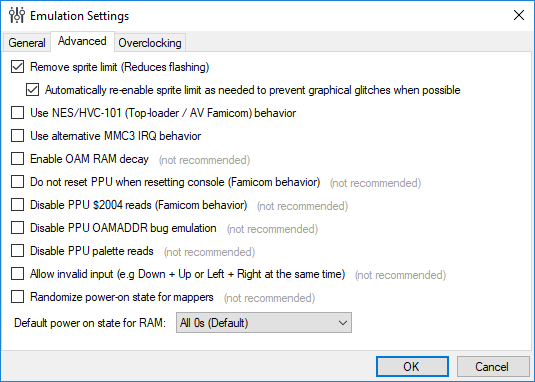
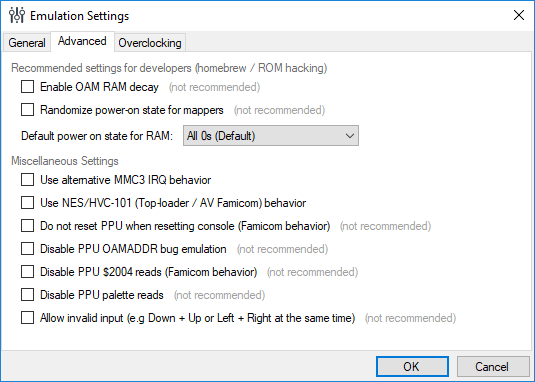
Docs: Updated some sections to reflect changes in the UI and add some more details

Changed region(s): [[0.0, 0.144, 0.8673, 0.8927]]

diff --git a/Docs/content/configuration/Emulation.md b/Docs/content/configuration/Emulation.md
@@ -23,24 +23,32 @@ Set any speed value to 0 to make Mesen run as fast as it can.
 
 ## Advanced Options ##
 
-{{% notice warning %}}
-Several options in this section should NOT be enabled to avoid issues in some games -- they are available here stricly for the sake of completeness (and testing homebrew software, etc.). These options are marked with the `(not recommended)` tag in the UI.
-{{% /notice %}}
-
 <div class="imgBox"><div>
 	<img src="/images/EmulationSettings_Advanced.png" />
 	<span>Advanced Options</span>
 </div></div>
 
-**Remove sprite limit**: The NES can normally only draw up to 8 sprites per line -- this limitation is indirectly responsible for *some* of the flickering seen in games at times.  When this option is enabled, the limit is disabled, allowing up to 64 sprites to be drawn on the same line.
+### Recommended settings for developers (homebrew / ROM hacking)
 
-**Automatically re-enable sprite limit as needed to prevent graphical glitches when possible**: Some games rely on the sprite limit to hide objects from view. These games will have graphical glitches when the `Remove sprite limit` option is enabled. By enabling this option, Mesen will try to detect when games are attempting to hit the sprite limit on purpose and temporarely re-enable the limit in these specific cases. This option is not perfect and may not work in certain games, but it helps reduce the potential negative impacts of the `Remove sprite limit` option.
+{{% notice tip %}}
+When developing software for the NES, enabling these options can help you catch bugs that would otherwise be invisible in most emulators and only show up on real hardware. Setting the power on state for RAM to **random values** is also recommended.
+{{% /notice %}}
 
-**Use NES/HVC-101 (Top-loader / AV Famicom) behavior**: The NES and Famicom both had 2 different releases - their original model and the "top loader" model.  Both of these have slightly different behavior when it comes to their input ports.  When enabled, this option causes Mesen to simulate the top loader models.  No games are known to rely on this behavior.
+**Enable OAM RAM decay**: On all models, OAM RAM decays whenever rendering is disabled. This causes the values in OAM RAM to decay to a specific value after a certain amount of time has elapsed since the last time the value was read or written (which may cause sprite-related glitches to appear on the screen). No known game relies on this -- the option is offered here mostly for the sake of homebrew software testing. There is a corresponding option to break on decayed OAM reads available in the debugger to help find and debug OAM decay-related bugs.
+
+**Randomize power-on state for mappers**: Cartridges often have a random state at power-on and need to be fully initialized before being used. This option causes Mesen to randomize the power-on state of the most common mappers. This is useful when developing homebrew software.
+
+**Default power on state for RAM**: On a console, the RAM's state at power on is undetermined and relatively random. This option lets you select Mesen's behavior when initializing RAM - set all bits to 0, set all bits to 1, or randomize the value of each bit.
+
+### Miscellaneous settings ###
+
+{{% notice warning %}}
+Several options in this section should NOT be enabled to avoid issues in some games -- they are available here stricly for the sake of completeness (and testing homebrew software, etc.). These options are marked with the `(not recommended)` tag in the UI.
+{{% /notice %}}
 
 **Use alternative MMC3 IRQ behavior**: The MMC3 has a number of different variants (A, B and C).  By default, Mesen uses the IRQ behavior for versions B and C.  By turning this option on, Mesen will default to using the MMC3A's IRQ behavior instead. There is usually no reason to enable this.
 
-**Enable OAM RAM decay**: On all models, OAM RAM decays whenever rendering is disabled. This causes the values in OAM RAM to decay to a specific value after a certain amount of time has elapsed since the last time the value was read or written (which may cause sprite-related glitches to appear on the screen). No known game relies on this -- the option is offered here mostly for the sake of homebrew software testing. There is a corresponding option to break on decayed OAM reads available in the debugger to help find and debug OAM decay-related bugs.
+**Use NES/HVC-101 (Top-loader / AV Famicom) behavior**: The NES and Famicom both had 2 different releases - their original model and the "top loader" model.  Both of these have slightly different behavior when it comes to their input ports.  When enabled, this option causes Mesen to simulate the top loader models.  No games are known to rely on this behavior.
 
 **Do not reset PPU when resetting console**: On the Famicom and top loader NES, the PPU does not reset when pressing the reset button (only the CPU is reset). When enabled, only the CPU resets when the reset button is pressed.
 
@@ -51,10 +59,6 @@ Several options in this section should NOT be enabled to avoid issues in some ga
 **Disable PPU palette reads**: On some early models, it is not possible to read the palette RAM via $2007 -- when enabled, this option emulates this behavior, making reads to palette RAM return corresponding values in the PPU's memory instead.
 
 **Allow invalid input**: On a NES controller, it is impossible to press both left and right or up and down at the same time on the controller's D-pad.  Some games rely on this and pressing both buttons at once can cause glitches.  When enabled, this option makes it possible to press opposite directional buttons at the same time.
-
-**Randomize power-on state for mappers**: Cartridges often have a random state at power-on and need to be fully initialized before being used. This option causes Mesen to randomize the power-on state of the most common mappers. This is useful when developing homebrew software.
-
-**Default power on state for RAM**: On a console, the RAM's state at power on is undetermined and relatively random. This option lets you select Mesen's behavior when initializing RAM - set all bits to 0, set all bits to 1, or randomize the value of each bit.
 
 
 ## Overclocking ##

diff --git a/Docs/content/configuration/Video.md b/Docs/content/configuration/Video.md
@@ -88,7 +88,7 @@ Click on any color in the palette to manually change its color.
 
 **Load Preset Palette**: Mesen comes with a number of built-in palette options - you can select them from here.
 
-**Load Palette File**: Use this to load a .pal file into the emulator.
+**Load Palette File**: Use this to load a .pal file into the emulator. Mesen supports both 64-color (192 bytes) and 512-color (1536 bytes) palette files.  The 512-color palette files can be used to control the colors used when the PPU's R/G/B emphasis bits are turned on.
 
 **Export Palette**: Use this to export your current palette into a .pal file.
 
@@ -105,7 +105,9 @@ Click on any color in the palette to manually change its color.
 These options should not be used if you are looking for accurate emulation.
 {{% /notice %}}
 
-**Screen Rotation**: Rotates the display by the specified angle. This is useful to play games (generally homebrew games) designed for a vertical display.
+**Remove sprite limit**: The NES can normally only draw up to 8 sprites per line -- this limitation is indirectly responsible for *some* of the flickering seen in games at times.  When this option is enabled, the limit is disabled, allowing up to 64 sprites to be drawn on the same line.
+
+**Automatically re-enable sprite limit as needed to prevent graphical glitches when possible**: Some games rely on the sprite limit to hide objects from view. These games will have graphical glitches when the `Remove sprite limit` option is enabled. By enabling this option, Mesen will try to detect when games are attempting to hit the sprite limit on purpose and temporarely re-enable the limit in these specific cases. This option is not perfect and may not work in certain games, but it helps reduce the potential negative impacts of the `Remove sprite limit` option.
 
 **Disable background**: Disables rendering of the background layer.
 
@@ -114,3 +116,5 @@ These options should not be used if you are looking for accurate emulation.
 **Force background display in first column**: The NES has a flag that prevents the background from rendering in the first 8 pixels on the left of the screen. When enabled, this option forces the background to be rendered in the first 8 pixels, no matter what the flag's value is.
 
 **Force sprite display in first column**: The NES has a flag that prevents sprites from rendering in the first 8 pixels on the left of the screen. When enabled, this option forces the sprites to be rendered in the first 8 pixels, no matter what the flag's value is.
+
+**Screen Rotation**: Rotates the display by the specified angle. This is useful to play games (generally homebrew games) designed for a vertical display.

diff --git a/Docs/content/debugging/Debugger.md b/Docs/content/debugging/Debugger.md
@@ -441,9 +441,21 @@ For FDS and NSF ROMs, `DefaultLabels.FDS.mlb` and `DefaultLabels.NSF.mlb` can be
 If both a global and mapper-specific `mlb` is found, both of them will be used (with the mapper-specific file having priority in case of conflicting labels).
 
 {{% notice tip %}}
-`.mlb` files are a Mesen-specific file format to define labels/comments in the code. They are written in a simple text format and can also be created by using the debugger's `Export Labels` feature.
+`.mlb` files are a [Mesen-specific file format](debuggerintegration.html#mesen-label-files-mlb) to define labels/comments in the code. They are written in a simple text format and can also be created by using the debugger's `Export Labels` feature.
 {{% /notice %}}
 
+
+## Performance Tracker ##
+
+<div class="imgBox"><div>
+	<img src="/images/PerformanceTracker.png" />
+	<span>Use the performance tracker to track in-game CPU usage and FPS</span>
+</div></div>
+
+From the code window, you can right-click on an address and activate the "performance tracker".
+This feature will track when the selected address is executed by the CPU on each frame, and display a CPU/FPS chart overlay based on those statistics.
+
+By setting the performance tracker to the part of the code that most games use to wait for vertical blank after the next frame's logic is done processing, you can get an estimate of how much extra CPU time remains on each frame.
 
 ## How To: Edit Code ##
 
@@ -459,3 +471,4 @@ When you're ready to apply your modifications, press the Apply button.
 {{% notice tip %}}
 If you want to save your code modifications to a .nes file, or as an IPS patch, you can use the **<kbd>File&rarr;Save</kbd>** or **<kbd>File&rarr;Save edits as IPS</kbd>** commands.
 {{% /notice %}}
+

diff --git a/Docs/content/tools/_index.md b/Docs/content/tools/_index.md
@@ -72,9 +72,11 @@ To play a movie file, select it via the **<kbd>Tools&rarr;Movies&rarr;Play</kbd>
 The history viewer allows you to replay (in a video player) any gameplay since the last time you power cycled or loaded a game.  
 You can start playback at any point in time, and instantly seek to any point in time, too.  
 
-To resume gameplay from the history viewer's current position, select **<kbd>File&rarr;Resume Gameplay</kbd>**
+To resume gameplay from the history viewer's current position, select **<kbd>File&rarr;Resume Gameplay</kbd>**  
+To create a save state for the current position, select **<kbd>File&rarr;Create Save State</kbd>**  
 
-To export a movie (`.mmo` file) of your gameplay, select **<kbd>File&rarr;Export Movie</kbd>**
+To export a movie (`.mmo` file) of your gameplay, select **<kbd>File&rarr;Export Movie</kbd>**  
+When exporting a movie, you can select the specific time range you want to export.
 
 ## Cheats ##
 

diff --git a/Docs/content/debugging/DebuggerIntegration.md b/Docs/content/debugging/DebuggerIntegration.md
@@ -58,6 +58,26 @@ Mesen can also import and export labels in `.mlb` format. This is the same forma
 
 <div style="clear:both"></div>
 
+### Mesen Label Files (.mlb) ###
+
+The `.mlb` files used by Mesen to import/export labels is a simple text format.  For example, this defines a label and comment on byte $100 of PRG ROM:
+```
+P:100:MyLabel:This is a comment
+```
+The format also supports multi-byte labels, defined by giving specifying an address range:
+```
+R:200-2FF:ShadowOam
+```
+
+The first letter on each row is used to specify the label's type:
+```
+P: PRG ROM labels
+R: RAM labels (for the NES' internal 2kb RAM)
+S: Save RAM labels
+W: Work RAM labels
+G: Register labels (these are used to define PPU/APU/Mapper registers, etc.)
+```
+
 ### Import Settings ###
 
 <div class="imgBox"><div>

diff --git a/Docs/content/configuration/Input.md b/Docs/content/configuration/Input.md
@@ -51,6 +51,8 @@ You can also configure that controller's turbo buttons' speed with the `Turbo Sp
 	<span>Advanced Options</span>
 </div></div>
 
+**Controller axis deadzone size**: Controls the deadzone size for analog sticks. A larger deadzone means that the analog stick will need to be moved more before a button press is registered.
+
 **Hide mouse pointer when using zapper**: Hides the mouse pointer completely when a Zapper is connected. This is useful when using light guns (for PCs) that simulate a mouse.
 
 ### Display Controller Input ###
